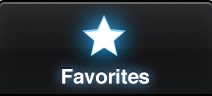
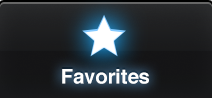
Replaced TabBar images with slightly taller ones (49px tall)

diff --git a/Classes/TPRTabBarController.m b/Classes/TPRTabBarController.m
@@ -41,6 +41,7 @@
     
     self.favoritesButton = [UIButton buttonWithType:UIButtonTypeCustom];
     self.favoritesButton.tag = 0;
+    self.favoritesButton.accessibilityIdentifier = @"favorites tab";
     [self.favoritesButton addTarget:self action:@selector(changeSelectedTab:) forControlEvents:UIControlEventTouchDown];
     self.favoritesButton.adjustsImageWhenHighlighted = NO;
     [self.favoritesButton setBackgroundImage:[UIImage imageNamed:@"tab-favorites.png"] forState:UIControlStateNormal];
@@ -54,6 +55,7 @@
     
     self.nearMeButton = [UIButton buttonWithType:UIButtonTypeCustom];
     self.nearMeButton.tag = 1;
+    self.nearMeButton.accessibilityIdentifier = @"stops near me tab";
     [self.nearMeButton addTarget:self action:@selector(changeSelectedTab:) forControlEvents:UIControlEventTouchDown];
     self.nearMeButton.adjustsImageWhenHighlighted = NO;
     [self.nearMeButton setBackgroundImage:[UIImage imageNamed:@"tab-nearme.png"] forState:UIControlStateNormal];
@@ -67,6 +69,7 @@
     
     self.linesButton = [UIButton buttonWithType:UIButtonTypeCustom];
     self.linesButton.tag = 2;
+    self.linesButton.accessibilityIdentifier = @"lines tab";
     [self.linesButton addTarget:self action:@selector(changeSelectedTab:) forControlEvents:UIControlEventTouchDown];
     self.linesButton.adjustsImageWhenHighlighted = NO;
     [self.linesButton setBackgroundImage:[UIImage imageNamed:@"tab-lines.png"] forState:UIControlStateNormal];
